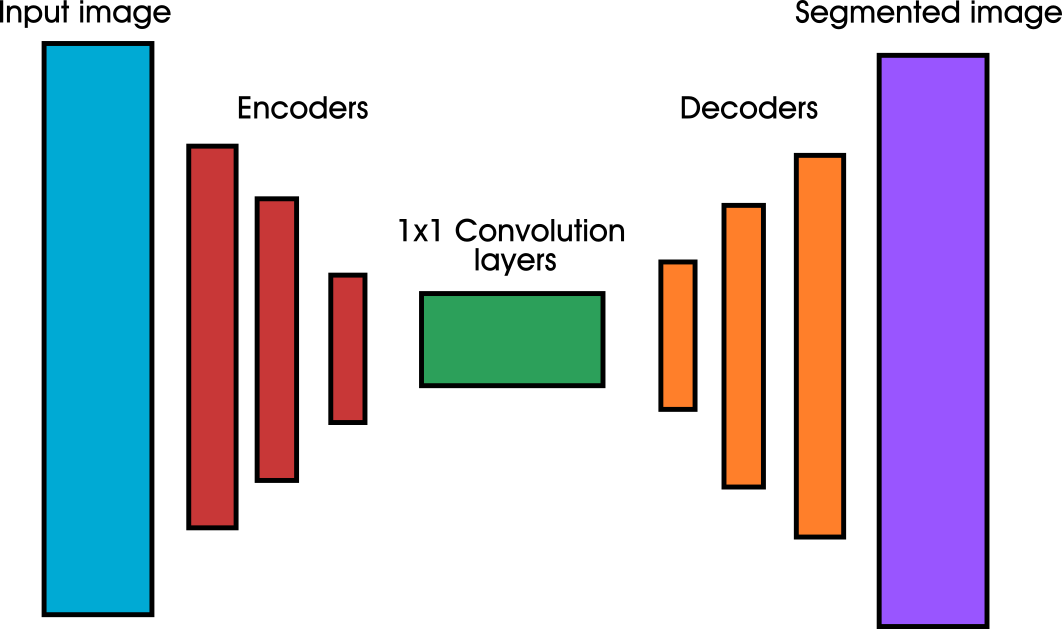
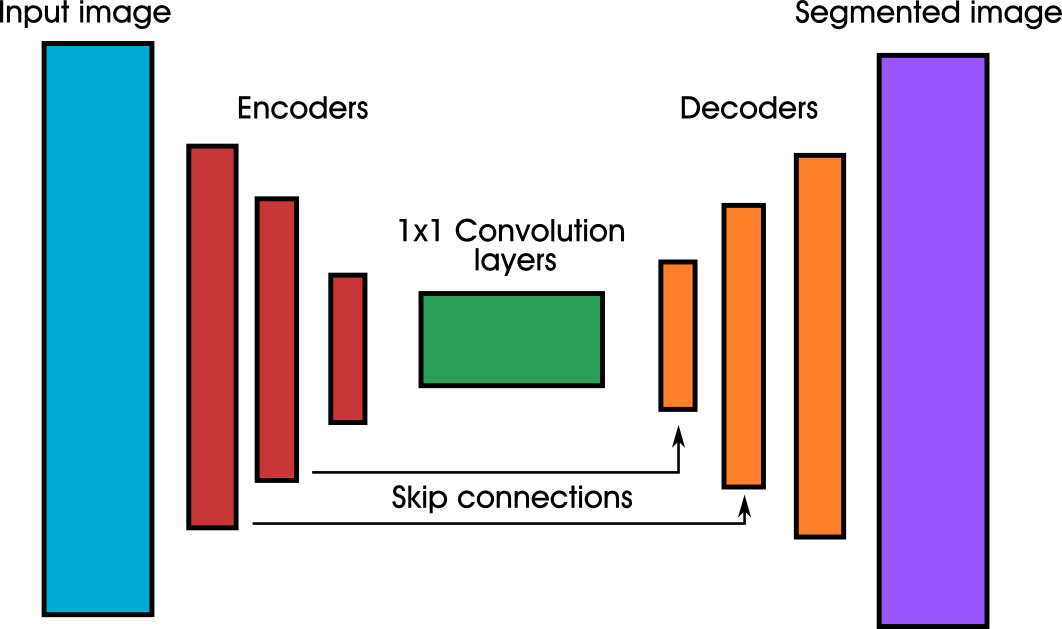
Update Network squeme

Changed region(s): [[0.2486, 0.6948, 0.7147, 0.8458]]

diff --git a/README.md b/README.md
@@ -79,6 +79,13 @@ In the following image a squeme of the network has been depicted.
 
 ### Hyperparameters
 
+learning_rate = 0.001
+batch_size = 32
+num_epochs = 30
+steps_per_epoch = int(7941/batch_size)-1
+validation_steps = int(3617/batch_size)
+workers = 2
+
 ### Results
 
 ```
